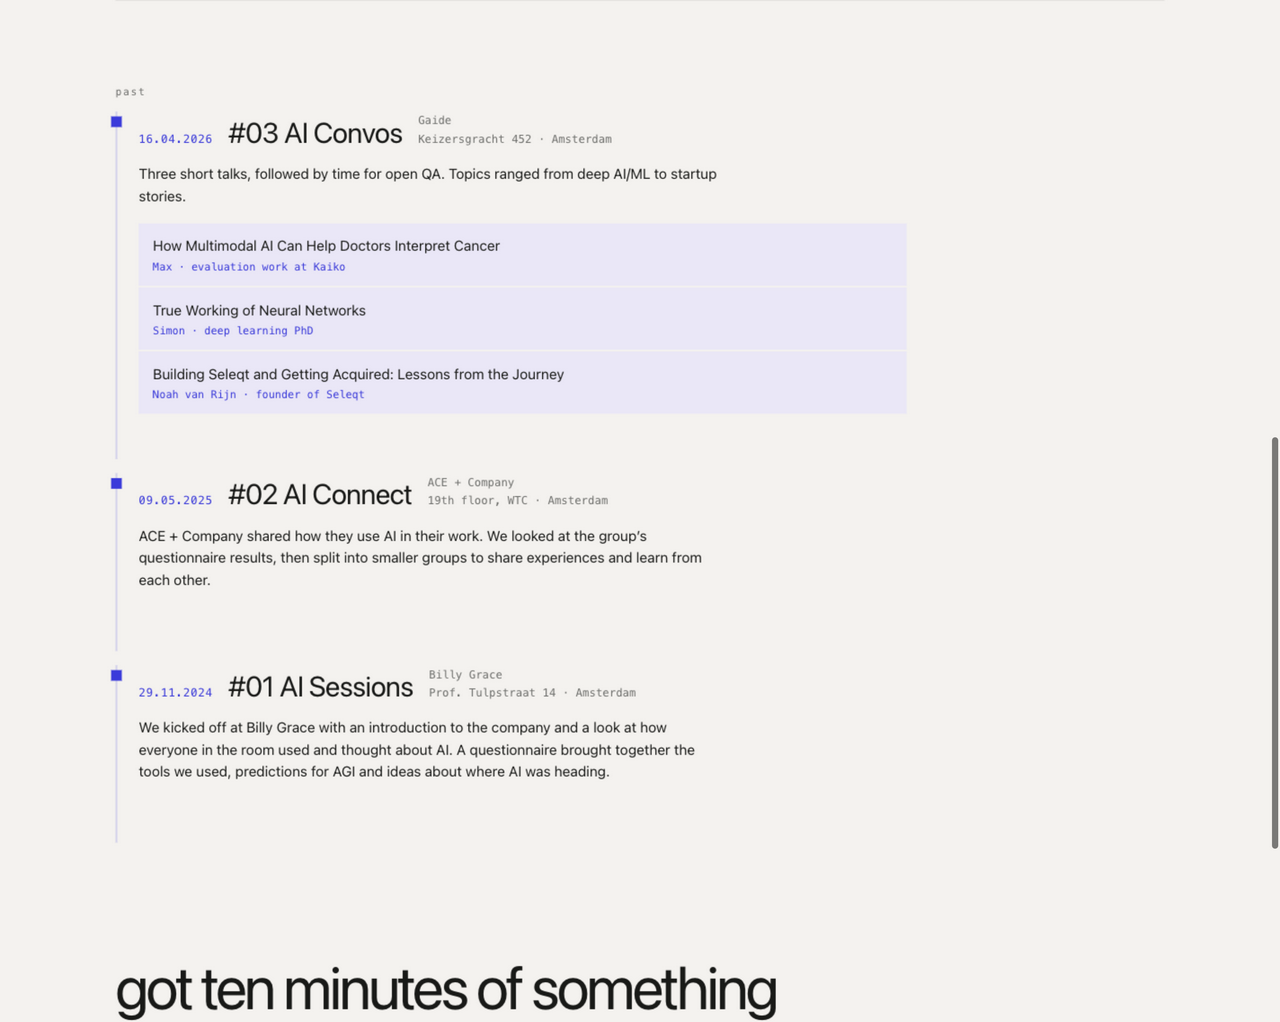
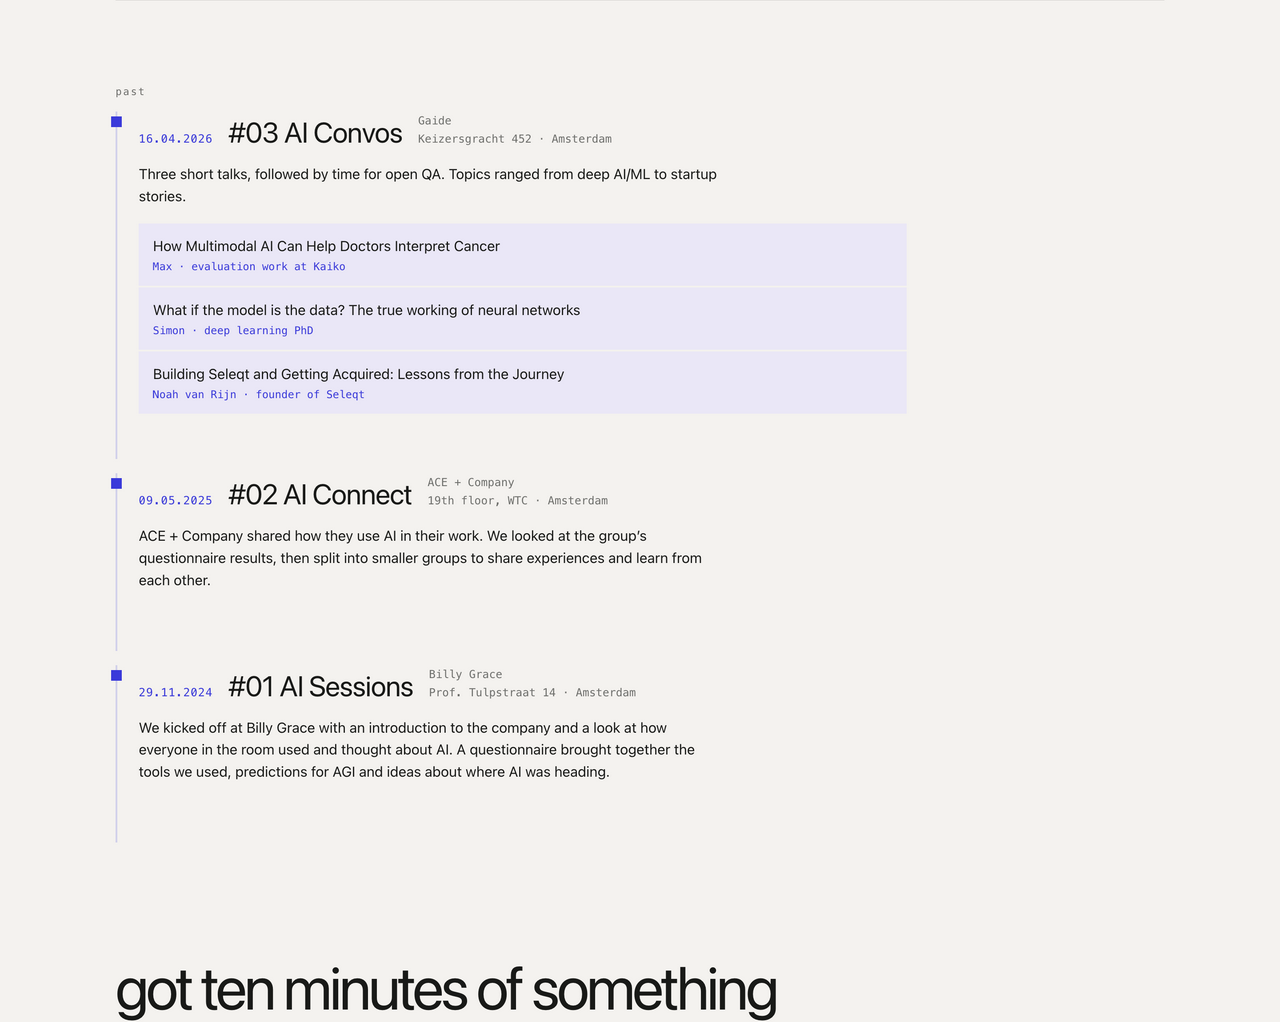
Correct Simon's talk title with sentence case

diff --git a/index.html b/index.html
@@ -287,7 +287,7 @@
             <div class="talk-speaker">Max · evaluation work at Kaiko</div>
           </div>
           <div class="talk">
-            <div class="talk-title">True Working of Neural Networks</div>
+            <div class="talk-title">What if the model is the data? The true working of neural networks</div>
             <div class="talk-speaker">Simon · deep learning PhD</div>
           </div>
           <div class="talk">

diff --git a/events/03-ai-convos.md b/events/03-ai-convos.md
@@ -12,7 +12,7 @@
 ## Known line-up
 
 1. Max — “How Multimodal AI Can Help Doctors Interpret Cancer,” drawing on evaluation work at Kaiko.
-2. Simon — Deep Learning PhD (credential confirmed by the organizer) — “True Working of Neural Networks,” about hidden patterns in neural-network research and whether a network can be judged from its weights.
+2. Simon — Deep Learning PhD (credential confirmed by the organizer) — “What if the model is the data? The true working of neural networks,” about hidden patterns in neural-network research and whether a network can be judged from its weights.
 3. Confirmed: Noah van Rijn, founder of Seleqt — “Building Seleqt and Getting Acquired: Lessons from the Journey,” about building Seleqt and lessons from its acquisition.
 
 ## Line-up sources
